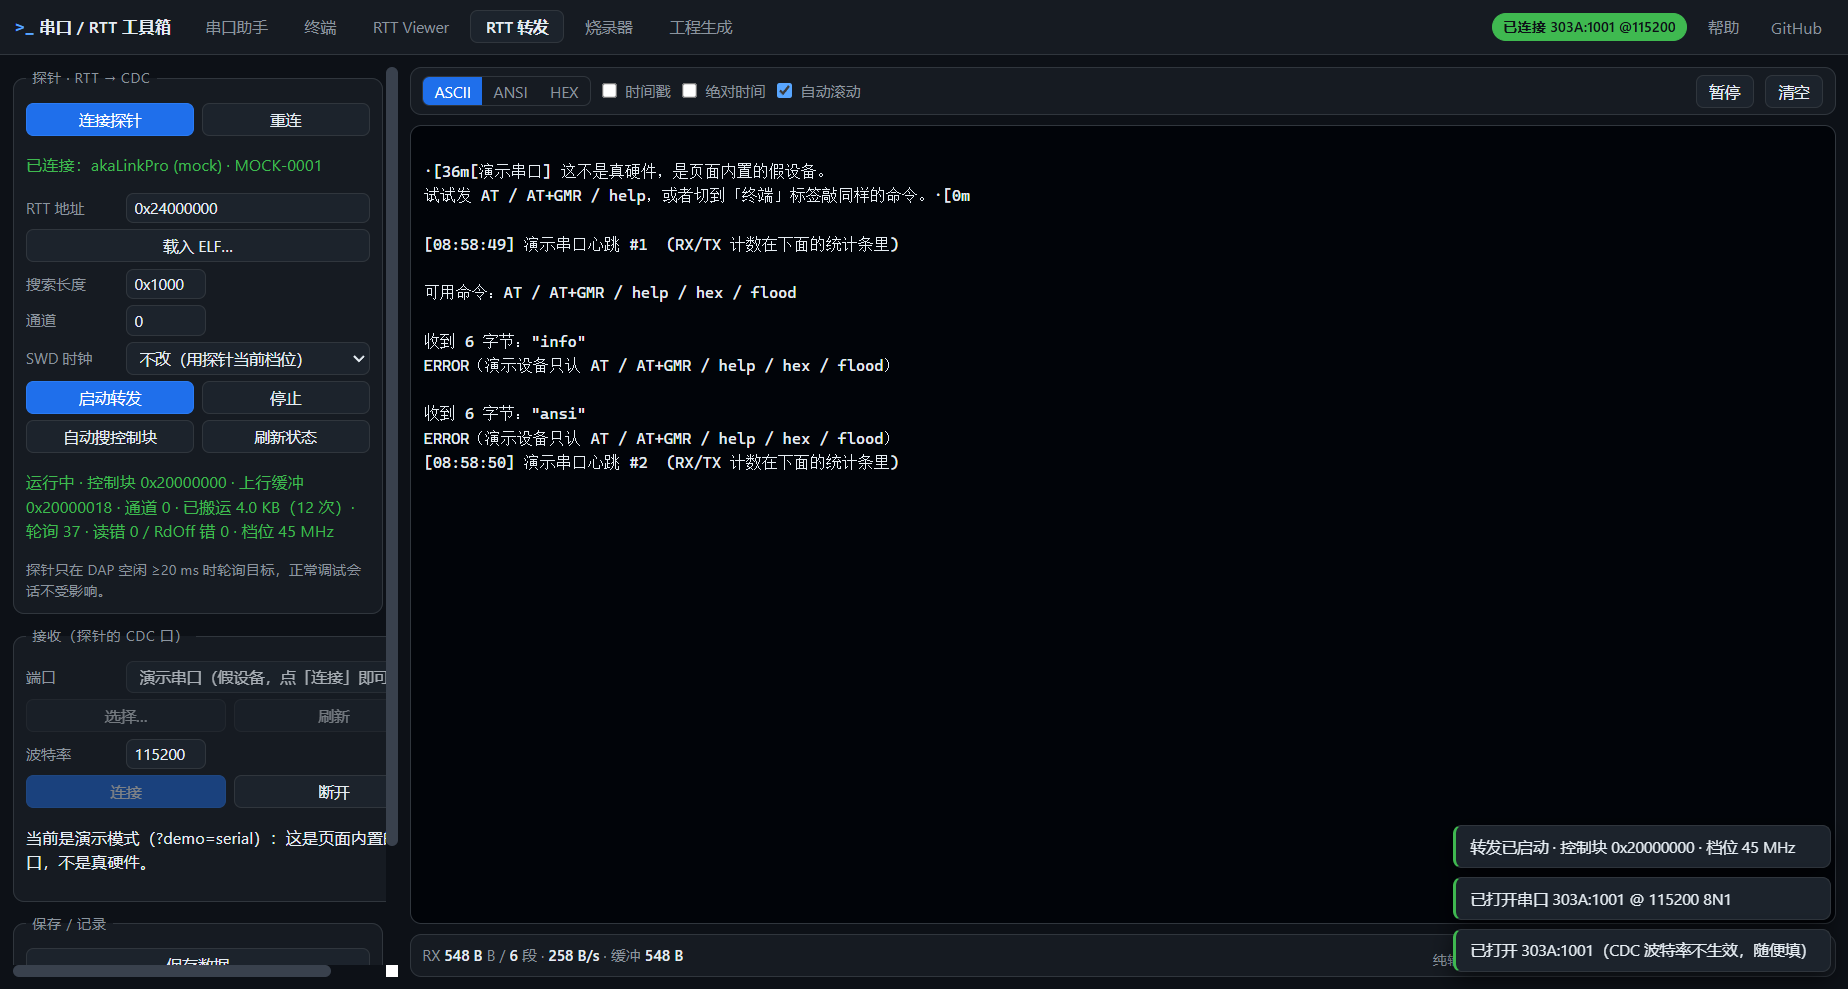
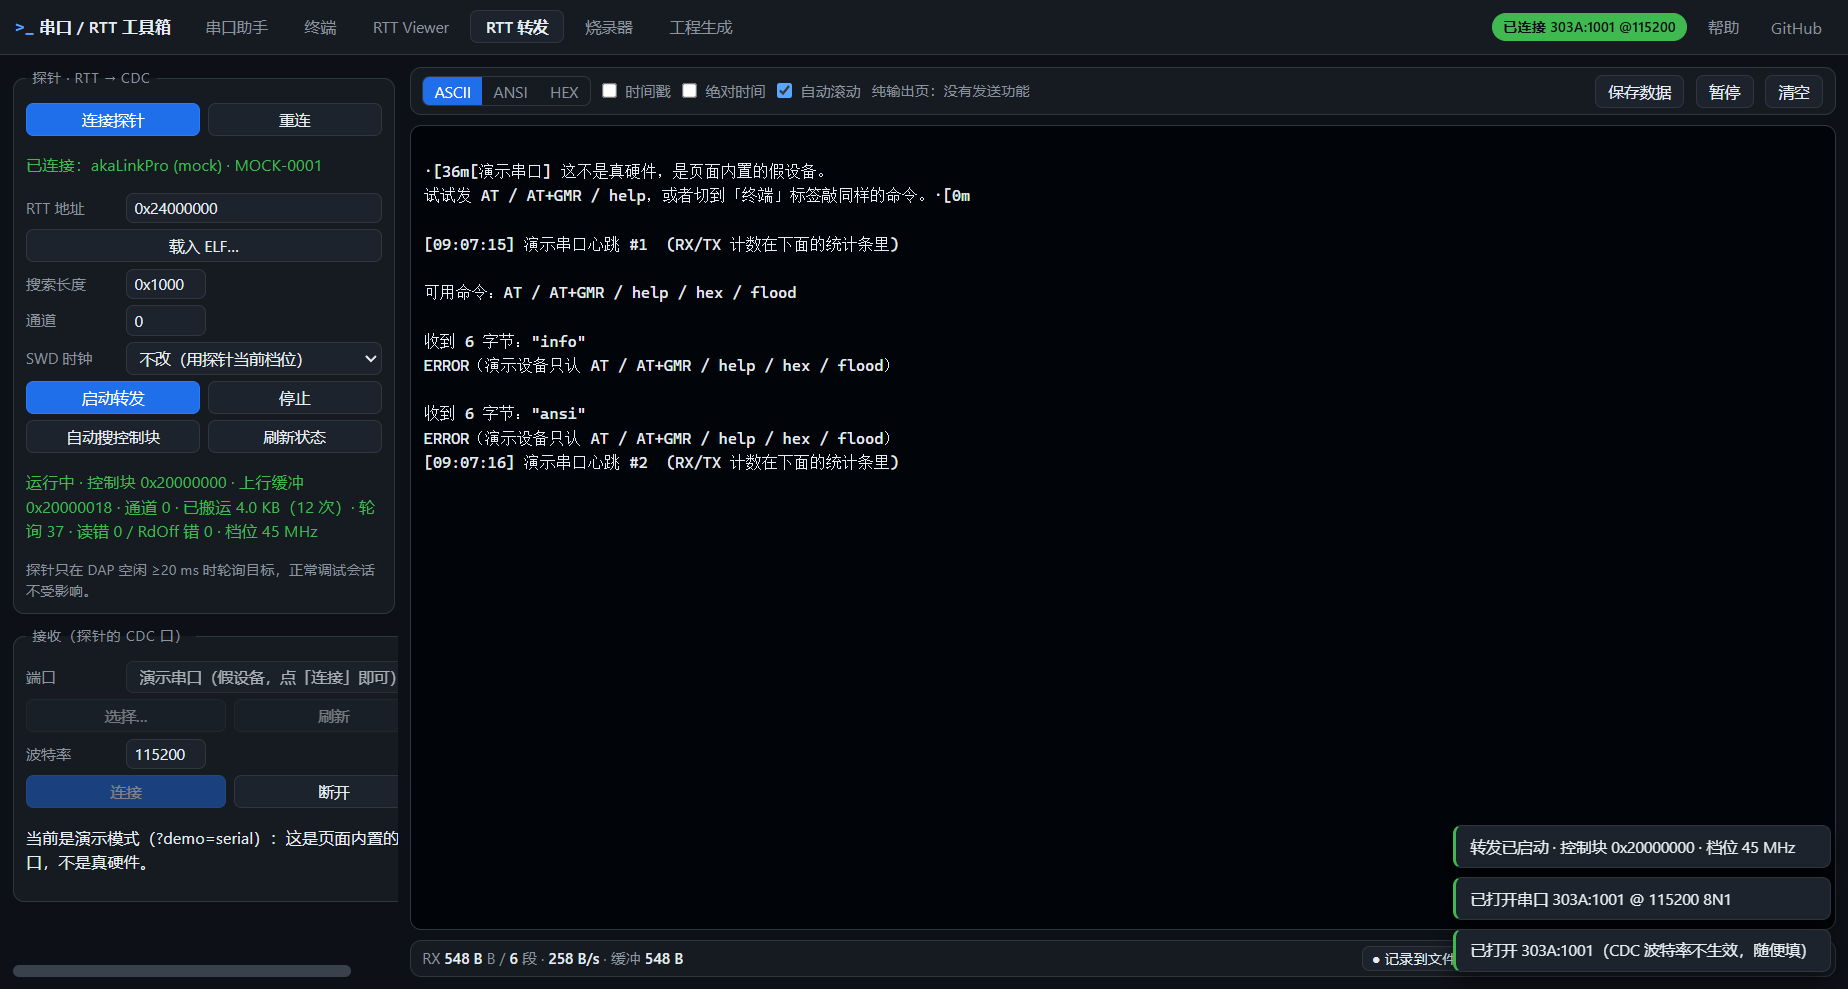
RTT 转发页：保存/记录从侧栏挪到右下统计条（照着 RTT Viewer / 串口助手）
侧栏原本有「探针 / 接收 / 保存·记录」三块，最后一块要拖滚动条才看得见（用户反馈）。
现在照 RTT Viewer 与串口助手的布局重排：

· 右下统计条（.stats，和另两页同一个位置与写法）：
  RX 字节/段数/速率/缓冲 + 错误位 + spacer + **● 记录到文件** + **记录带时间戳** + **连接自动记录** + **计数清零**；
· 顶部工具栏补上「保存数据」（与串口助手一致），并在中间标一句「纯输出页：没有发送功能」；
· 侧栏只剩「探针 · RTT→CDC」与「接收」两块。

实测（1478×791 视口）：侧栏 scrollHeight == clientHeight = 718 → **不再需要滚动**；
记录按钮 rect.right ≤ 视口宽，六个控件（保存数据/记录到文件/两个勾选/计数清零/暂停/清空）全部在视口内。

回归：make test-ui 17/17（含「这一页没有任何发送控件」的断言）、协议层 43/43；截图 docs/shots/5-rttcdc.png 重拍。

diff --git a/index.html b/index.html
@@ -419,21 +419,6 @@
         </div>
         <p class="hint" id="c-note">启动转发后点「连接」打开探针那个 CDC 口，数据就会出现在右边。</p>
       </fieldset>
-
-      <fieldset>
-        <legend>保存 / 记录</legend>
-        <div class="row btnrow">
-          <button id="c-save" title="把接收区里的数据存成 txt（按当前 ASCII/HEX 与时间戳设置）">保存数据</button>
-        </div>
-        <div class="row btnrow">
-          <button id="c-record" title="把收到的字节直接写进本地文件（不走接收区 2MB 上限），高速采集用">● 记录到文件</button>
-        </div>
-        <label class="chk" title="默认开：每段前加一行 [时:分:秒.毫秒]，存 .txt 给人看；关掉则原样写字节存 .bin（二进制安全）"><input type="checkbox" id="c-record-ts" checked> 记录带时间戳</label>
-        <label class="chk" title="连接成功后自动弹一次保存框开始记录。配合高速自动关显示（>100KB/s 停渲染、收数/记录照常），一上来就猛灌的场景全程无感"><input type="checkbox" id="c-record-auto"> 连接自动记录</label>
-        <div class="row btnrow">
-          <button id="c-statclear" class="mini">计数清零</button>
-        </div>
-      </fieldset>
     </aside>
 
     <section class="main">
@@ -444,7 +429,9 @@
         <label class="chk"><input type="checkbox" id="c-ts"> 时间戳</label>
         <label class="chk"><input type="checkbox" id="c-tsabs"> 绝对时间</label>
         <label class="chk"><input type="checkbox" id="c-autoscroll" checked> 自动滚动</label>
+        <span class="hint" style="margin:0">纯输出页：没有发送功能</span>
         <span class="spacer"></span>
+        <button id="c-save" title="把接收区里的数据存成 txt（按当前 ASCII/HEX 与时间戳设置）">保存数据</button>
         <button id="c-pause">暂停</button>
         <button id="c-clear">清空</button>
       </div>
@@ -454,7 +441,10 @@
         <span>RX <b id="c-rxbytes">0</b> B / <b id="c-rxframes">0</b> 段 · <b id="c-rxrate">0 B/s</b> · 缓冲 <b id="c-buf">0 B</b></span>
         <span class="err" id="c-err"></span>
         <span class="spacer"></span>
-        <span class="hint">纯输出页：没有发送功能（数据是探针从目标 RTT 搬过来的）</span>
+        <button id="c-record" class="mini" title="把收到的字节直接写进本地文件（不走接收区 2MB 上限），高速采集用">● 记录到文件</button>
+        <label class="chk" title="默认开：每段前加一行 [时:分:秒.毫秒]，存 .txt 给人看；关掉则原样写字节存 .bin（二进制安全）"><input type="checkbox" id="c-record-ts" checked> 记录带时间戳</label>
+        <label class="chk" title="连接成功后自动弹一次保存框开始记录。配合高速自动关显示（>100KB/s 停渲染、收数/记录照常），一上来就猛灌的场景全程无感"><input type="checkbox" id="c-record-auto"> 连接自动记录</label>
+        <button id="c-statclear" class="mini">计数清零</button>
       </div>
     </section>
   </div>
